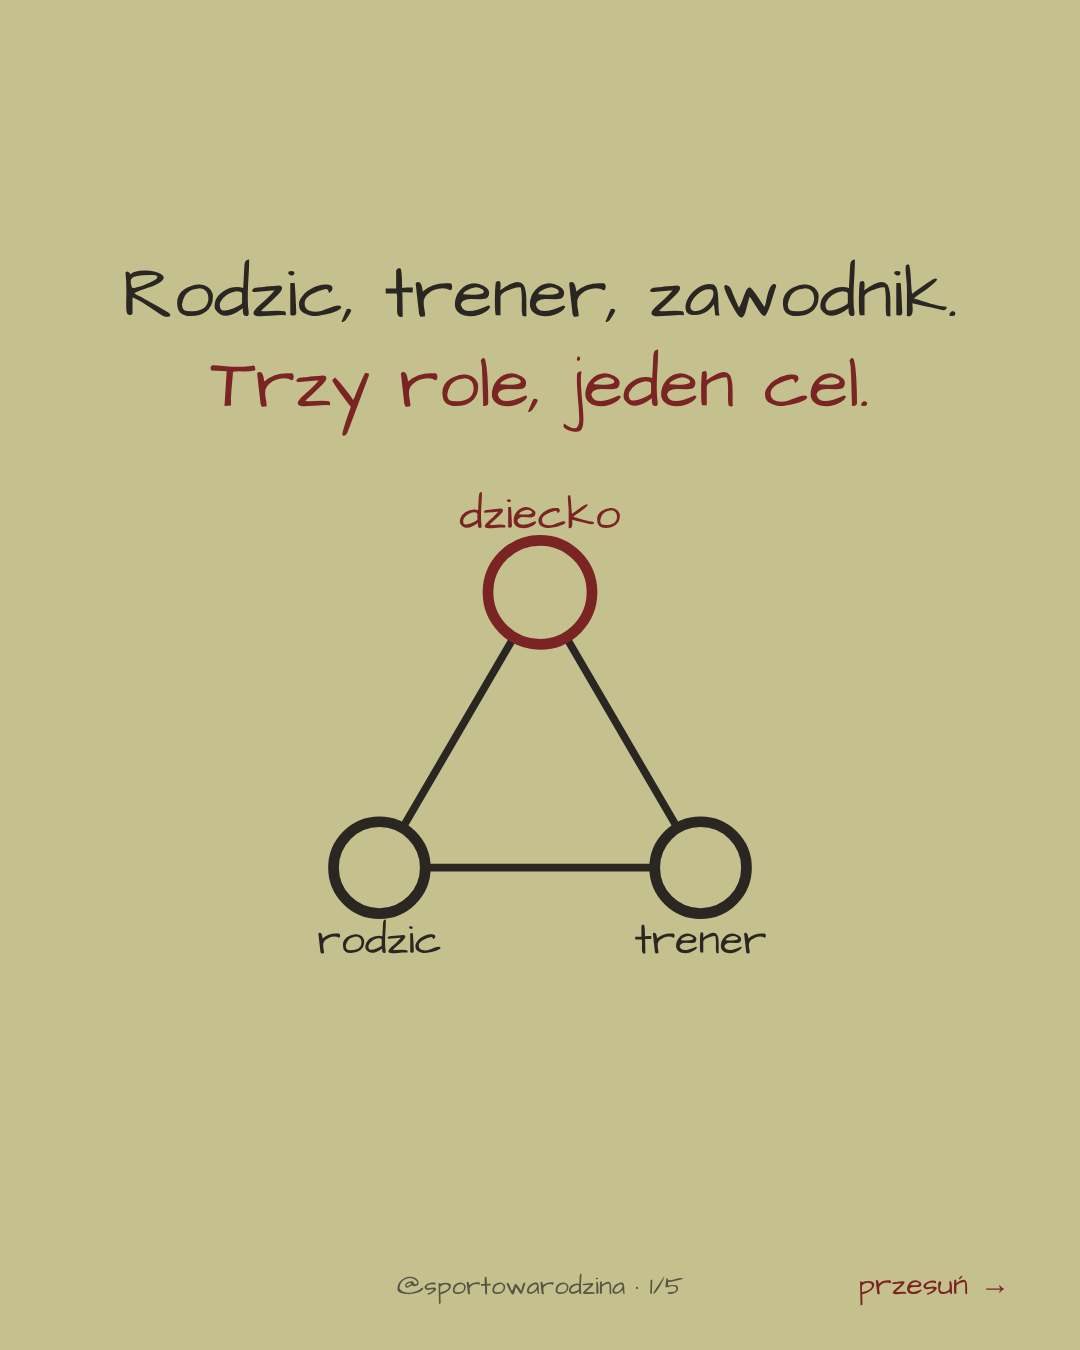
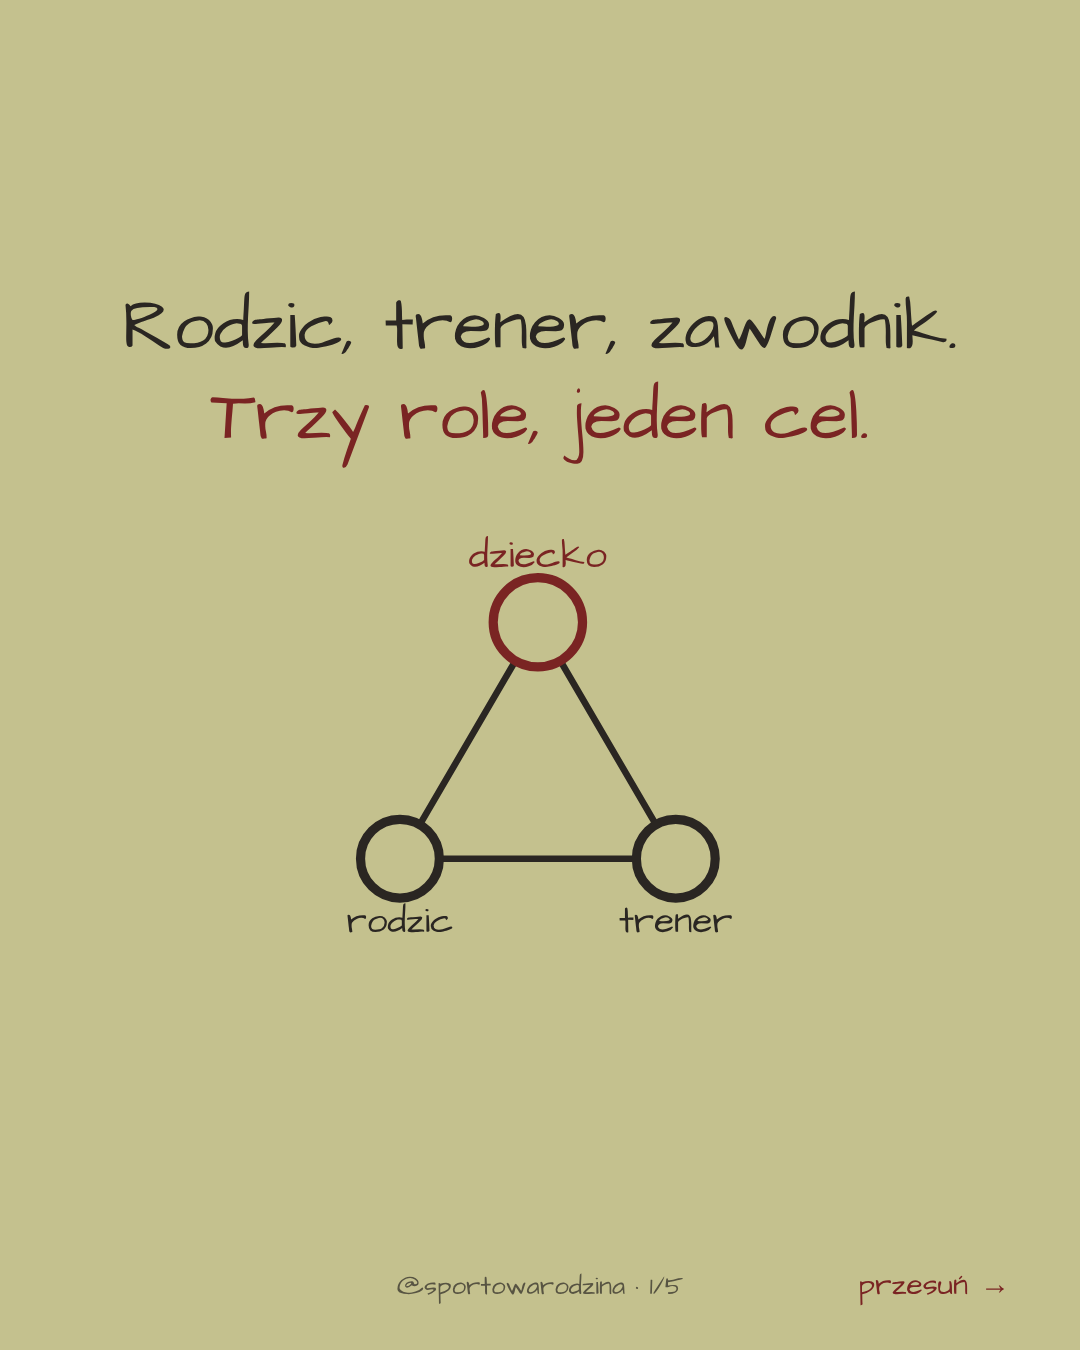
Rodzina: doodle cropped to its edges, even text-symbol gap
Claude-Session: https://claude.ai/code/session_01A5PTvWpyS7iEo6fG2kmJPS

Changed region(s): [[0.3667, 0.1867, 0.8861, 0.3422], [0.3056, 0.3733, 0.7028, 0.7156], [0.0917, 0.1867, 0.3361, 0.3422]]

diff --git a/tools/family.js b/tools/family.js
@@ -29,12 +29,12 @@ const ICONS = {
   moon: () => R('M190,70 C130,80 100,140 120,195 C140,245 205,255 245,220 C190,225 150,180 160,130 C165,100 175,82 190,70 Z', 8, ACC) + `<text x="200" y="110" font-family="AD" font-size="54" fill="${INK}">z</text><text x="235" y="80" font-family="AD" font-size="40" fill="${INK}">z</text><text x="262" y="56" font-family="AD" font-size="30" fill="${INK}">z</text>`,
   triangle: () => R('M150,60 L255,240 L45,240 Z', 5) + ['M150,60', 'M255,240', 'M45,240'].map((p, k) => `<circle cx="${[150, 255, 45][k]}" cy="${[60, 240, 240][k]}" r="${k === 0 ? 34 : 30}" fill="${BG}" stroke="${k === 0 ? ACC : INK}" stroke-width="7"/>`).join('') + `<text x="150" y="18" text-anchor="middle" font-family="AD" font-size="30" fill="${ACC}">dziecko</text><text x="255" y="296" text-anchor="middle" font-family="AD" font-size="28" fill="${INK}">trener</text><text x="45" y="296" text-anchor="middle" font-family="AD" font-size="28" fill="${INK}">rodzic</text>`,
 };
-const doodle = (name, size = 330) => `<svg viewBox="-20 -10 340 320" overflow="visible" width="${size}" height="${size}">${ICONS[name]()}</svg>`;
+const doodle = (name, size = 330) => `<svg class="dd" viewBox="-20 -10 340 320" overflow="visible" width="${size}" height="${size}"><g>${ICONS[name]()}</g></svg>`;
 function slide(s, i) {
   const swipe = total > 1 ? `<div style="position:absolute;right:70px;bottom:44px;font-size:30px" class="a">przesuń →</div>` : '';
   if (s.kind === 'cover' && s.layout === 'doodle') {
-    return `<div class="c" style="top:0;bottom:110px;display:flex;flex-direction:column;align-items:center;justify-content:center;gap:40px">
-      <div style="font-size:${len(s.text) < 45 ? 84 : 72}px;line-height:1.25">${hl(s.text)}</div>${doodle(s.icon, 520)}</div>${swipe}${foot(i)}`;
+    return `<div class="c" style="top:0;bottom:110px;display:flex;flex-direction:column;align-items:center;justify-content:center;gap:56px">
+      <div style="font-size:${len(s.text) < 45 ? 84 : 72}px;line-height:1.25">${hl(s.text)}</div>${doodle(s.icon, 440)}</div>${swipe}${foot(i)}`;
   }
   if (s.kind === 'cover' && s.layout === 'bubble') {
     const b = s.bubbles.map((t, k) => `<div style="align-self:${k % 2 ? 'flex-end' : 'flex-start'};max-width:78%;border:6px solid ${k % 2 ? ACC : INK};border-radius:46px;padding:26px 44px;font-size:66px;line-height:1.2;background:${k % 2 ? 'transparent' : 'rgba(255,255,255,.35)'};transform:rotate(${k % 2 ? 1.5 : -1.5}deg)">${hl(t)}</div>`).join('');
@@ -90,6 +90,12 @@ function slide(s, i) {
   for (let i = 0; i < total; i++) {
     fs.writeFileSync(tmp, `<!doctype html><html><head><meta charset="utf-8"><style>${css}</style></head><body>${slide(spec.slides[i], i)}</body></html>`);
     await p.goto('file://' + tmp); await p.evaluate(() => document.fonts.ready);
+    // przytnij rysunek do faktycznych krawędzi, żeby odstęp od tekstu był równy
+    await p.evaluate(() => document.querySelectorAll('svg.dd').forEach(sv => {
+      const b = sv.querySelector('g').getBBox(), pad = 8, H = sv.height.baseVal.value;
+      sv.setAttribute('viewBox', `${b.x - pad} ${b.y - pad} ${b.width + 2 * pad} ${b.height + 2 * pad}`);
+      sv.setAttribute('height', H); sv.setAttribute('width', H * (b.width + 2 * pad) / (b.height + 2 * pad));
+    }));
     await p.screenshot({ path: path.join(outDir, `${i + 1}.png`) });
   }
   fs.unlinkSync(tmp); await b.close();
